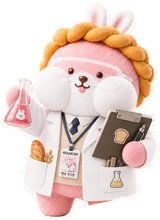
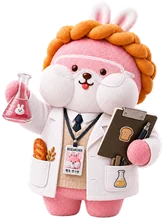
authors: 프로필 이미지 넷을 얼굴 샷으로 통일 + 빵토 연구원 새 그림
프로필 카드는 아바타를 104px 원으로 그리는데 토니·선생님이 전신샷이라 그 안에서
얼굴이 20px 로 줄어 누가 누군지 안 보였다. 넷 다 머리+어깨만 자른다.

- 빵토 연구원 새 마스터(장식 없는 흰 배경 전신 렌더)를 받아 아바타·푸터 컷아웃을
  전부 다시 구웠다. 옛 데코 컷은 교수님 쪽에 이미 쓰이던 `-deco` 규약으로 보관.
- `scripts/make-author-face.ts` 신설 — 네 크롭 자리를 표 하나에 모은다. 한 명만 따로
  자르면 목록에서 얼굴 크기가 제각각이 되기 때문이고, `bgTol` 은 마스터마다 잰 값이다
  (흰 볼털 하이라이트가 흰 배경과 같은 255 까지 올라가 넓히면 fill 이 볼을 뚫는다).
- 배경은 지우고 투명으로 낸다. 마스터마다 배경이 크림/흰색/투명으로 갈리는데 그대로
  두면 원 네 개의 바탕색이 어긋난다. `.ap-avatar` 가 이미 `--paper` 를 깔아 둔다.
- 토니 아바타 경로를 `/tony-deco.webp` → `/images/authors/tony.webp` 로 옮겼다.
  옛 파일은 OG 기본 이미지로 계속 산다.
- 푸터 컷아웃도 새 마스터에서 다시 오려 스티커 흰 테두리가 구워져 있던 것을 없앴다
  (셋과 달리 혼자 테두리를 지고 있었다).

diff --git a/scripts/make-author-face.ts b/scripts/make-author-face.ts
@@ -1,0 +1,219 @@
+#!/usr/bin/env bun
+/**
+ * make-author-face — 저자 전신 마스터에서 **얼굴 샷 아바타**(`AuthorMeta.avatar`)를 굽는다.
+ *
+ * 프로필 카드(`AuthorProfile.astro`)는 아바타를 104px 원으로 그린다. 전신샷을 그 원에
+ * 넣으면 얼굴이 20px 남짓으로 줄어 누가 누군지 안 보인다 — 그래서 네 저자 모두 머리 +
+ * 어깨만 잘라 쓴다. **네 장을 한 표에 모아 두는 이유**는 프레이밍이 서로 맞아야 해서다.
+ * 한 명만 따로 자르면 목록에서 얼굴 크기가 제각각이 된다.
+ *
+ * 원본은 **장식 없는 전신 마스터**(`design-concept/authors/<id>-fullbody-master.webp`)다.
+ * 데코 컷(모눈 종이 + 말풍선 + 이름표)에서 자르면 아바타마다 배경 낙서가 다르게 걸린다.
+ *
+ * 배경은 지우고 **투명하게** 내보낸다. `.ap-avatar` 가 이미 `background: var(--paper)` 를
+ * 깔고 있어서, 투명한 컷은 어느 지면에서든 그 지면의 종이색 위에 앉는다. 마스터마다
+ * 배경색이 다른데(토니 크림 254,248,241 · 나머지 흰색 254,254,254 · 선생님은 이미 투명)
+ * 그걸 그대로 두면 원 네 개의 바탕색이 미묘하게 갈린다.
+ *
+ * **`bgTol` 은 눈대중이 아니라 마스터마다 잰 값이다.** 흰 볼털의 하이라이트가 흰 배경과
+ * 같은 값(255,255,255)까지 올라가서, 넓히면 fill 이 볼 속으로 새어 얼굴이 뚫린다
+ * (`extract-author-cutout.ts` 머리말의 (D) 절과 같은 함정). 볼 가장자리의 그늘이 fill 을
+ * 막아 주는 폭이 곧 안전 한계이므로, 값을 만지면 **512px 결과에서 볼·귀를 확대해 확인**할 것.
+ *
+ * 실행: bun scripts/make-author-face.ts
+ * 출력: public/images/authors/<id>.webp (512×512, 알파)
+ *
+ * 멱등하다. 마스터를 갈아 끼웠을 때만 다시 돌리고, **끝나면 반드시**
+ * `bun scripts/make-author-avatars.ts` 로 `-sm` 사본까지 다시 굽는다(그 스크립트가 이
+ * 결과물을 원본으로 삼는다).
+ */
+import { existsSync } from "node:fs";
+import { mkdir } from "node:fs/promises";
+import path from "node:path";
+import sharp from "sharp";
+
+const ROOT = path.resolve(import.meta.dirname, "..");
+const OUT_DIR = path.join(ROOT, "public/images/authors");
+const OUT_SIZE = 512; // 프로필 카드 104px · 목록 아바타 22px 의 여유 있는 상위 배수
+
+interface FaceCrop {
+  /** 장식 없는 전신 마스터 (repo 상대경로) */
+  master: string;
+  /** 마스터 좌표계의 정사각 크롭 — 머리 위 여백 ~ 어깨 윗선 */
+  left: number;
+  top: number;
+  size: number;
+  /** 배경 flood fill 허용 오차. 마스터마다 잰 값 — 머리말 참고 */
+  bgTol: number;
+}
+
+/**
+ * 네 저자의 얼굴 자리. `size` 를 비슷하게 두는 게 아니라 **머리가 프레임에서 차지하는
+ * 비율**을 맞춘 값이다(마스터마다 캐릭터가 판에서 차지하는 크기가 다르다).
+ */
+const FACES: Record<string, FaceCrop> = {
+  tony: {
+    master: "design-concept/authors/tony-fullbody-master.webp",
+    left: 330,
+    top: 150,
+    size: 620,
+    bgTol: 4, // DECO_KIT 8절에서 잰 값 — 10으로 넓히면 흰 털이 배경으로 넘어간다
+  },
+  ppangto: {
+    master: "design-concept/authors/ppangto-fullbody-master.webp",
+    left: 395,
+    top: 120,
+    size: 620,
+    bgTol: 3,
+  },
+  "ppangto-prof": {
+    master: "design-concept/authors/ppangto-prof-fullbody-master.webp",
+    left: 348,
+    top: 140,
+    size: 600,
+    bgTol: 3,
+  },
+  "ppangto-teacher": {
+    master: "design-concept/authors/ppangto-teacher-fullbody-master.webp",
+    left: 265,
+    top: 200,
+    size: 560,
+    bgTol: 3, // 이 마스터는 이미 알파가 있어 fill 을 타지 않는다(아래 분기)
+  },
+};
+
+/** 테두리 한 줄이 대부분 투명하면 지울 배경이 없다 — 마스터가 이미 오려진 컷이다. */
+function borderIsTransparent(buf: Buffer, W: number, H: number): boolean {
+  let opaque = 0;
+  let total = 0;
+  const check = (p: number) => {
+    total++;
+    if (buf[p * 4 + 3] >= 8) opaque++;
+  };
+  for (let x = 0; x < W; x++) {
+    check(x);
+    check((H - 1) * W + x);
+  }
+  for (let y = 0; y < H; y++) {
+    check(y * W);
+    check(y * W + W - 1);
+  }
+  return opaque / total < 0.1;
+}
+
+/** 테두리 픽셀의 평균색 = 배경색. 마스터는 단색 배경이라 평균이 곧 그 색이다. */
+function borderColor(buf: Buffer, W: number, H: number): [number, number, number] {
+  let r = 0;
+  let g = 0;
+  let b = 0;
+  let n = 0;
+  const take = (p: number) => {
+    r += buf[p * 4];
+    g += buf[p * 4 + 1];
+    b += buf[p * 4 + 2];
+    n++;
+  };
+  for (let x = 0; x < W; x++) {
+    take(x);
+    take((H - 1) * W + x);
+  }
+  for (let y = 0; y < H; y++) {
+    take(y * W);
+    take(y * W + W - 1);
+  }
+  return [r / n, g / n, b / n];
+}
+
+/**
+ * 판 테두리에서 배경색을 flood fill 해 알파 0으로 만든다.
+ *
+ * **크롭 전에 판 전체에서 돌린다** — 크롭 상자의 변은 머리카락이 물고 있을 수 있어서
+ * 씨앗이 모자라고, 그러면 귀와 땋은 빵 사이 같은 자리의 배경이 섬으로 남는다.
+ * 발밑 접지 그림자는 이 판정에 안 걸려 남지만, 얼굴 크롭 밖이라 상관없다.
+ */
+function clearBackground(buf: Buffer, W: number, H: number, tol: number): number {
+  const bg = borderColor(buf, W, H);
+  const seen = new Uint8Array(W * H);
+  const stack: number[] = [];
+  for (let x = 0; x < W; x++) {
+    stack.push(x, (H - 1) * W + x);
+  }
+  for (let y = 0; y < H; y++) {
+    stack.push(y * W, y * W + W - 1);
+  }
+  let cleared = 0;
+  while (stack.length) {
+    const p = stack.pop()!;
+    if (seen[p]) continue;
+    const i = p * 4;
+    if (
+      Math.abs(buf[i] - bg[0]) > tol ||
+      Math.abs(buf[i + 1] - bg[1]) > tol ||
+      Math.abs(buf[i + 2] - bg[2]) > tol
+    ) {
+      continue;
+    }
+    seen[p] = 1;
+    buf[i + 3] = 0;
+    cleared++;
+    const x = p % W;
+    if (x > 0) stack.push(p - 1);
+    if (x < W - 1) stack.push(p + 1);
+    if (p >= W) stack.push(p - W);
+    if (p < W * (H - 1)) stack.push(p + W);
+  }
+  return cleared;
+}
+
+async function main() {
+  await mkdir(OUT_DIR, { recursive: true });
+
+  for (const [id, face] of Object.entries(FACES)) {
+    const src = path.join(ROOT, face.master);
+    if (!existsSync(src)) {
+      console.warn(`  ! 마스터 없음, 건너뜀: ${id} (${face.master})`);
+      continue;
+    }
+    const meta = await sharp(src).metadata();
+    const W = meta.width!;
+    const H = meta.height!;
+    if (
+      face.left < 0 ||
+      face.top < 0 ||
+      face.left + face.size > W ||
+      face.top + face.size > H
+    ) {
+      console.error(
+        `  ! 크롭 상자가 판(${W}×${H}) 밖이다: ${id} (${face.left},${face.top}) ${face.size}px`,
+      );
+      process.exitCode = 1;
+      continue;
+    }
+
+    const buf = await sharp(src).ensureAlpha().raw().toBuffer();
+    const alreadyCut = borderIsTransparent(buf, W, H);
+    const cleared = alreadyCut ? 0 : clearBackground(buf, W, H, face.bgTol);
+
+    const out = path.join(OUT_DIR, `${id}.webp`);
+    await sharp(buf, { raw: { width: W, height: H, channels: 4 } })
+      .extract({
+        left: face.left,
+        top: face.top,
+        width: face.size,
+        height: face.size,
+      })
+      .resize(OUT_SIZE, OUT_SIZE)
+      .webp({ quality: 88, effort: 6, alphaQuality: 100 })
+      .toFile(out);
+
+    console.log(
+      `  ✓ ${id}: ${path.basename(face.master)} (${face.left},${face.top}) ${face.size}px` +
+        ` → /images/authors/${id}.webp` +
+        (alreadyCut
+          ? " (마스터가 이미 투명)"
+          : ` (배경 ${((cleared / (W * H)) * 100).toFixed(1)}% 제거)`),
+    );
+  }
+}
+
+await main();

diff --git a/src/lib/authors.ts b/src/lib/authors.ts
@@ -4,6 +4,13 @@ export interface AuthorMeta {
   role: string;
   handle: string;
   bio: string;
+  /**
+   * 프로필 카드(104px 원)·목록(22px)에 쓰는 **얼굴 샷**. 배경을 오려낸 투명 webp 라
+   * 어느 지면의 종이색 위에도 그대로 앉는다(`.ap-avatar` 가 `--paper` 를 깔아 둔다).
+   * `scripts/make-author-face.ts` 가 전신 마스터에서 머리 + 어깨만 잘라 굽는다 —
+   * 네 저자의 프레이밍이 서로 맞아야 하므로 크롭 자리는 그 스크립트의 표 하나에 모여 있다.
+   * **전신샷을 넣지 마라**: 원 안에서 얼굴이 20px 로 줄어 누가 누군지 안 보인다.
+   */
   avatar?: string;
   /**
    * 배경을 오려낸 전신 컷아웃(투명 webp) — 푸터 저자 라인업에 세워지는 그림.
@@ -36,7 +43,9 @@ export const AUTHORS: AuthorMeta[] = [
     role: "글 굽는 사람",
     handle: "@ppangwan-tony",
     bio: "Serious Work, Joyful Wit. 진지한 일 이야기를 토실토실하게 구워 씁니다.",
-    avatar: "/tony-deco.webp",
+    // 예전엔 /tony-deco.webp(장식 구운 전신 합성물)를 그대로 썼다 — 원 안에서 얼굴이
+    // 뭉개지고 혼자만 모눈 배경을 지고 있었다. 그 파일은 OG 기본 이미지로 계속 산다.
+    avatar: "/images/authors/tony.webp",
     fullBody: "/images/authors/tony-full.webp",
     avatarSm: "/images/authors/tony-sm.webp",
     isAI: false,

diff --git a/scripts/extract-author-cutout.ts b/scripts/extract-author-cutout.ts
@@ -50,9 +50,11 @@
  *     --out public/images/deco/tony-diecut.webp --height 904 \
  *     --bg-tol 4 --shadow-floor 1026 --force
  *
- * 원본(마스터)이 사는 곳: 사이트가 직접 참조하는 원본은 public/(예: public/tony-deco.webp,
- * public/images/authors/ppangto-teacher.webp)에 있고, 컷아웃 재생성용으로만 보관하는 원본은
- * 배포 산출물을 불리지 않도록 design-concept/authors/에 둔다.
+ * 원본(마스터)이 사는 곳: **전신 마스터와 데코 컷은 전부 design-concept/authors/** 에 둔다
+ * (`<id>-fullbody-master.webp` = 장식 없는 렌더 · `<id>-deco.webp` = 장식이 구워진 그림).
+ * 배포 산출물을 불리지 않으려는 것이고, public/ 에는 **구운 결과물만** 남는다 — 얼굴 샷
+ * 아바타(`scripts/make-author-face.ts`)와 전신 컷아웃(이 스크립트). 예외는
+ * public/tony-deco.webp 하나로, 사이트가 OG 기본 이미지로 직접 참조한다.
  *
  * 새 저자 전신샷이 생기면 이 명령만 다시 돌리면 된다. 결과 webp는 커밋한다
  * (astro build는 이 스크립트를 돌지 않고 커밋된 webp만 소비한다).

diff --git a/CLAUDE.md b/CLAUDE.md
@@ -49,7 +49,9 @@ Astro static site. Source lives entirely under `src/`; `public/` is served at th
 Posts are markdown in `src/content/posts/`. Frontmatter schema (`src/content.config.ts`):
 `title` (req), `description`, `pubDate` (req, date), `updatedDate`, `category` (req, enum), `author` (enum from `src/lib/authors.ts`, default `"tony"`), `tags` (string[]), `series`, `order`, `draft` (default false).
 
-**Authors**: `tony` (빵관 토니, 사람) · `ppangto` (빵토 연구원, AI 완전 집필). Author appears in post meta, post lists, and as a profile card (`AuthorProfile.astro`) at the bottom of every post. If the author has `isAI: true`, an AI banner (`AiBanner.astro`, image at `public/images/authors/ai-banner.webp`) renders at the top of the post — AI가 완전 집필한 글은 frontmatter에 `author: ppangto`만 지정하면 된다.
+**Authors**: `tony` (빵관 토니, 사람) · `ppangto` (빵토 연구원, AI 완전 집필). Author appears in post meta, post lists, and as a profile card (`AuthorProfile.astro`) at the bottom of every post.
+
+**저자 그림은 마스터 하나에서 두 벌로 굽는다** — 원본은 전부 `design-concept/authors/`(배포 안 함)에 있고, `public/images/authors/`엔 구운 결과물만 남는다. 얼굴 샷 `<id>.webp`(프로필 카드 104px 원 · 목록 22px)는 `scripts/make-author-face.ts`, 전신 컷아웃 `<id>-full.webp`(푸터 라인업)는 `scripts/extract-author-cutout.ts`가 만든다. 셋 다 **배경을 오려낸 투명 webp**라 어느 지면의 종이색 위에도 그대로 앉는다(`.ap-avatar`가 `--paper`를 깐다) — 마스터마다 배경이 크림/흰색/투명으로 갈리는데 그걸 그대로 두면 원 네 개의 바탕색이 미묘하게 어긋난다. **전신샷을 아바타로 돌려 쓰지 마라**(원 안에서 얼굴이 20px로 줄어 누가 누군지 안 보인다). 얼굴 크롭 자리 네 개가 `make-author-face.ts`의 표 하나에 모여 있는 이유는 한 명만 따로 자르면 목록에서 얼굴 크기가 제각각이 되기 때문이고, `bgTol`은 눈대중이 아니라 마스터마다 잰 값이다(흰 볼털 하이라이트가 흰 배경과 같은 255까지 올라가서 넓히면 fill이 볼을 뚫는다 — `extract-author-cutout.ts` (D) 절과 같은 함정). 얼굴 샷을 다시 구우면 **`make-author-avatars.ts`로 64px 사본까지** 다시 굽는다. 근거와 재생성 명령은 `DECO_KIT.md` 8절. If the author has `isAI: true`, an AI banner (`AiBanner.astro`, image at `public/images/authors/ai-banner.webp`) renders at the top of the post — AI가 완전 집필한 글은 frontmatter에 `author: ppangto`만 지정하면 된다.
 
 **Series patterns** (모든 포스트에 자동 적용, `src/lib/seriesNav.ts`가 단일 소스):
 - `PostNav.astro` — 이전화/다음화 카드. 시리즈 글은 `order` 기준 EP 네비게이션, 그 외는 발행일 기준.

diff --git a/design-concept/DECO_KIT.md b/design-concept/DECO_KIT.md
@@ -652,7 +652,15 @@ svg 안에서 `--surface` 를 쓰는 곳이 셋(노드 · 키워드 라벨 halo 
 |---|---|---|
 | `design-concept/authors/tony-fullbody-master.webp` | 1254², 187KB | **마스터** — 배포 안 됨, 컷아웃 재생성용 |
 | `public/images/deco/tony-diecut.webp` | 653×904, 78KB | S6 · 히어로 콜라주 · **F1 액자 안** |
-| `public/images/authors/tony-full.webp` | 159×220 | 저자 아바타 전용 (`src/lib/authors.ts`) |
+| `public/images/authors/tony-full.webp` | 159×220 | 푸터 저자 라인업 전용 (`AuthorMeta.fullBody`) |
+| `public/images/authors/tony.webp` | 512², 알파 | 프로필 아바타 — 얼굴 샷 (`AuthorMeta.avatar`) |
+
+**저자 그림은 두 벌이다 — 전신 컷아웃과 얼굴 샷.** 둘 다 같은 전신 마스터에서 굽지만
+자르는 스크립트가 다르다(전신 = `extract-author-cutout.ts` · 얼굴 = `make-author-face.ts`).
+전신을 아바타로 돌려 쓰지 마라 — 프로필 카드가 104px **원**이라 그 안에서 얼굴이 20px 로
+줄어 누가 누군지 안 보인다. 반대로 얼굴 샷을 라인업에 세울 수도 없다(발이 없다).
+얼굴 크롭 자리 네 개를 `make-author-face.ts` 의 표 하나에 모아 둔 것도 같은 이유다 —
+한 명만 따로 자르면 목록에서 얼굴 크기가 제각각이 된다.
 
 액자(F1) 안에도 다이컷을 쓴다 — 히어로 마스코트와 같은 URL 이라 추가 다운로드가 없다.
 
@@ -667,6 +675,14 @@ bun scripts/extract-author-cutout.ts --src design-concept/authors/tony-fullbody-
   --out public/images/deco/tony-diecut.webp  --height 904 --bg-tol 4 --shadow-floor 1026 --force
 bun scripts/extract-author-cutout.ts --src design-concept/authors/tony-fullbody-master.webp \
   --out public/images/authors/tony-full.webp --height 220 --bg-tol 4 --shadow-floor 1026 --force
+```
+
+**얼굴 샷은 네 저자를 한 번에 굽는다** — 프레이밍이 서로 맞아야 하므로 인자가 아니라
+스크립트 안의 표다. 끝나면 목록용 64px 사본도 다시 굽는다(그게 얼굴 샷을 원본으로 삼는다):
+
+```bash
+bun scripts/make-author-face.ts      # → public/images/authors/<id>.webp (512², 알파)
+bun scripts/make-author-avatars.ts   # → public/images/authors/<id>-sm.webp (64²)
 ```
 
 **왜 마스터를 따로 두는가 — 구운 합성물에는 온전한 실루엣이 없다.** 원래는
